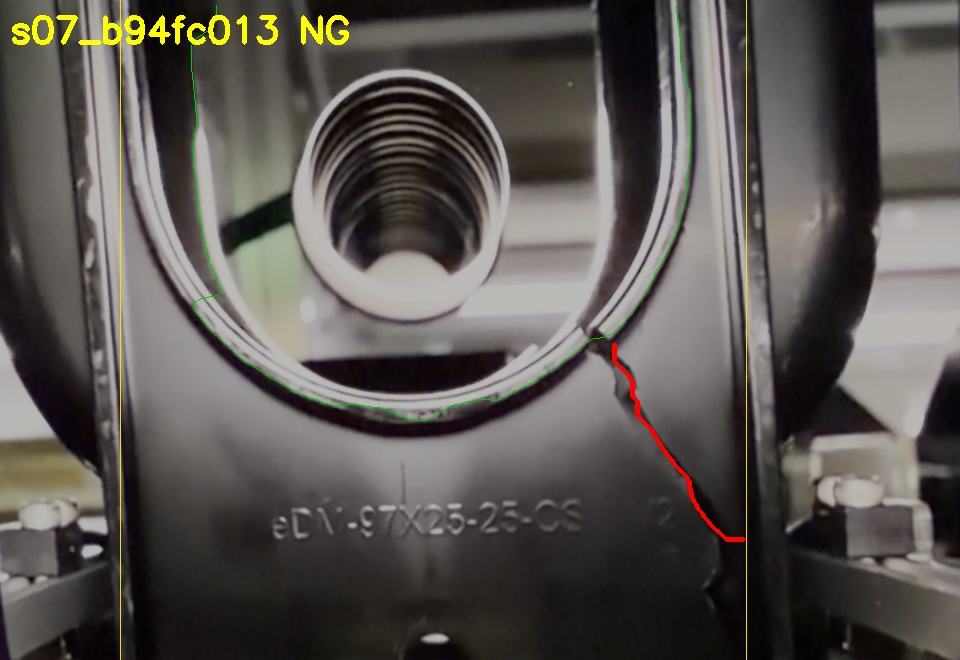
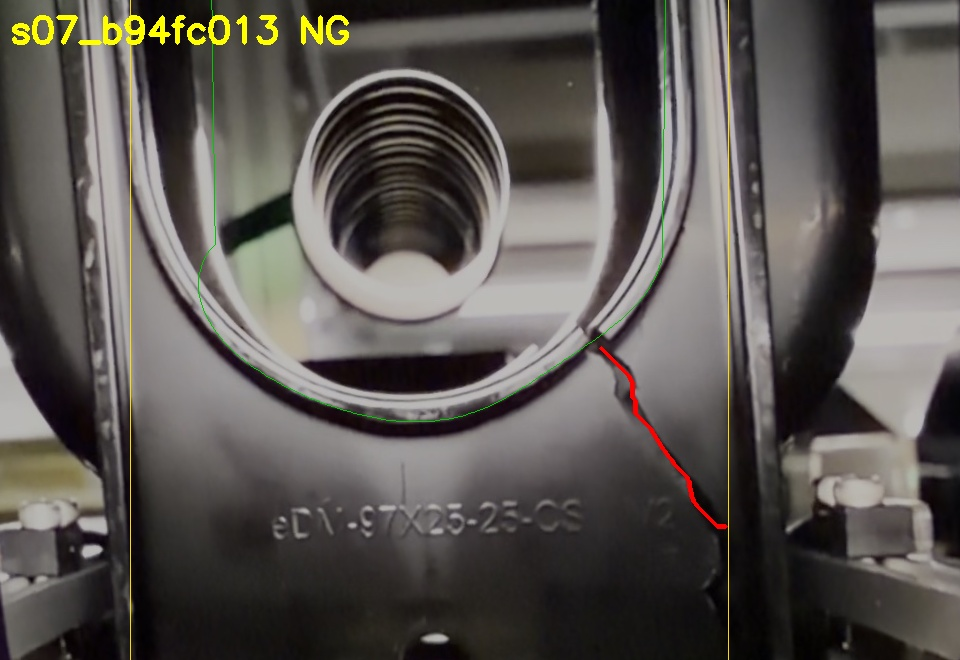
Regularize the detected U: straight symmetric legs and a smooth bottom
Claude-Session: https://claude.ai/code/session_01AGHVZAzegJVfdU4wL5nFmJ

diff --git a/crack_v14/u_detect.py b/crack_v14/u_detect.py
@@ -143,6 +143,57 @@ def trace_leg(img, edge, start, side, row_step=4, search=40, max_shift=3):
     return pts[::-1][:-1]                                         # 上端 -> start の手前（start は arc 側にある）
 
 
+def regularize(rim, cx, cy, deg=6, iters=3):
+    """見つけた縁取りの線を「綺麗なU字」に直す（ガタつき・部分的な外れを取る）。
+
+      脚（中心より上）: 左右それぞれ1本の直線に当てはめる（外れた点は除いて当てはめ直す）
+      底（中心より下）: 中心から見た距離を、角度のなめらかな関数（多項式）に当てはめる
+    """
+    rim = np.asarray(rim, np.float64)
+    legs_l = rim[(rim[:, 1] < cy) & (rim[:, 0] < cx)]
+    legs_r = rim[(rim[:, 1] < cy) & (rim[:, 0] >= cx)]
+    arc = rim[rim[:, 1] >= cy]
+
+    def robust_line(pts):                      # x = a + b*y
+        if len(pts) < 4:
+            return None
+        keep = np.ones(len(pts), bool)
+        for _ in range(iters):
+            b_, a_ = np.polyfit(pts[keep, 1], pts[keep, 0], 1)
+            res = np.abs(pts[:, 0] - (a_ + b_ * pts[:, 1]))
+            keep = res < max(3.0, 2.5 * np.median(res[keep]))
+        return a_, b_
+
+    th = np.arctan2(arc[:, 1] - cy, arc[:, 0] - cx)
+    r = np.hypot(arc[:, 0] - cx, arc[:, 1] - cy)
+    keep = np.ones(len(th), bool)
+    for _ in range(iters):
+        coef = np.polyfit(th[keep], r[keep], deg)
+        res = np.abs(r - np.polyval(coef, th))
+        keep = res < max(3.0, 2.5 * np.median(res[keep]))
+    t2 = np.linspace(th.max(), th.min(), 120)  # 左（大きい角度）-> 底 -> 右
+    a2 = np.c_[cx + np.polyval(coef, t2) * np.cos(t2), cy + np.polyval(coef, t2) * np.sin(t2)]
+
+    out = []
+    L, R = robust_line(legs_l), robust_line(legs_r)
+    # U字は左右対称なので、脚の傾きは左右で鏡写し（左の傾き = -右の傾き）にそろえ、大きく傾けない
+    if L is not None and R is not None:
+        bm = float(np.clip((L[1] - R[1]) / 2, -0.08, 0.08))
+        L, R = (L[0], bm), (R[0], -bm)
+    ys = np.arange(0, a2[0][1], 6.0)
+    if L is not None:
+        xl = L[0] + L[1] * ys
+        xl += a2[0][0] - (L[0] + L[1] * a2[0][1])     # 底とつながるように端をそろえる
+        out.append(np.c_[xl, ys])
+    out.append(a2)
+    ys = np.arange(0, a2[-1][1], 6.0)[::-1]
+    if R is not None:
+        xr = R[0] + R[1] * ys
+        xr += a2[-1][0] - (R[0] + R[1] * a2[-1][1])
+        out.append(np.c_[xr, ys])
+    return np.vstack(out)
+
+
 def snap_rim(ref, rim, search=10, step=4.0, smooth_penalty=2.0):
     """縁取りの線を、近くの本当の境目（外側の暗い樹脂 -> 内側の明るい縁取り）に細かく吸い付け、
     縁取りの太さも測る。戻り値: (点の並び, 縁取りの太さ[px])"""
@@ -195,7 +246,9 @@ def detect_geometry(frame, edge_margin=10, min_thick=30):
     """1枚の画像（基準座標 960x660）から検査範囲を作る。戻り値: (検査範囲, はっきり度)"""
     W, H = SIZE
     rim0, (cx, cy), total = find_rim(frame)
-    rim, width = snap_rim(frame, rim0.tolist())
+    rim0 = regularize(rim0, cx, cy)                            # 綺麗なU字に直す
+    rim, width = snap_rim(frame, rim0.tolist(), search=5, smooth_penalty=4.0)
+    rim = regularize(np.array(rim), cx, cy).tolist()          # 吸い付けたあとも、もう一度U字にそろえる
     rim = np.array(rim)
     bottom = rim[np.argmax(rim[:, 1])]
     top_y = float(rim[:, 1].min())

diff --git a/gist/crack_v14_bundle.py b/gist/crack_v14_bundle.py
@@ -888,6 +888,57 @@ def trace_leg(img, edge, start, side, row_step=4, search=40, max_shift=3):
     return pts[::-1][:-1]                                         # 上端 -> start の手前（start は arc 側にある）
 
 
+def regularize(rim, cx, cy, deg=6, iters=3):
+    """見つけた縁取りの線を「綺麗なU字」に直す（ガタつき・部分的な外れを取る）。
+
+      脚（中心より上）: 左右それぞれ1本の直線に当てはめる（外れた点は除いて当てはめ直す）
+      底（中心より下）: 中心から見た距離を、角度のなめらかな関数（多項式）に当てはめる
+    """
+    rim = np.asarray(rim, np.float64)
+    legs_l = rim[(rim[:, 1] < cy) & (rim[:, 0] < cx)]
+    legs_r = rim[(rim[:, 1] < cy) & (rim[:, 0] >= cx)]
+    arc = rim[rim[:, 1] >= cy]
+
+    def robust_line(pts):                      # x = a + b*y
+        if len(pts) < 4:
+            return None
+        keep = np.ones(len(pts), bool)
+        for _ in range(iters):
+            b_, a_ = np.polyfit(pts[keep, 1], pts[keep, 0], 1)
+            res = np.abs(pts[:, 0] - (a_ + b_ * pts[:, 1]))
+            keep = res < max(3.0, 2.5 * np.median(res[keep]))
+        return a_, b_
+
+    th = np.arctan2(arc[:, 1] - cy, arc[:, 0] - cx)
+    r = np.hypot(arc[:, 0] - cx, arc[:, 1] - cy)
+    keep = np.ones(len(th), bool)
+    for _ in range(iters):
+        coef = np.polyfit(th[keep], r[keep], deg)
+        res = np.abs(r - np.polyval(coef, th))
+        keep = res < max(3.0, 2.5 * np.median(res[keep]))
+    t2 = np.linspace(th.max(), th.min(), 120)  # 左（大きい角度）-> 底 -> 右
+    a2 = np.c_[cx + np.polyval(coef, t2) * np.cos(t2), cy + np.polyval(coef, t2) * np.sin(t2)]
+
+    out = []
+    L, R = robust_line(legs_l), robust_line(legs_r)
+    # U字は左右対称なので、脚の傾きは左右で鏡写し（左の傾き = -右の傾き）にそろえ、大きく傾けない
+    if L is not None and R is not None:
+        bm = float(np.clip((L[1] - R[1]) / 2, -0.08, 0.08))
+        L, R = (L[0], bm), (R[0], -bm)
+    ys = np.arange(0, a2[0][1], 6.0)
+    if L is not None:
+        xl = L[0] + L[1] * ys
+        xl += a2[0][0] - (L[0] + L[1] * a2[0][1])     # 底とつながるように端をそろえる
+        out.append(np.c_[xl, ys])
+    out.append(a2)
+    ys = np.arange(0, a2[-1][1], 6.0)[::-1]
+    if R is not None:
+        xr = R[0] + R[1] * ys
+        xr += a2[-1][0] - (R[0] + R[1] * a2[-1][1])
+        out.append(np.c_[xr, ys])
+    return np.vstack(out)
+
+
 def snap_rim(ref, rim, search=10, step=4.0, smooth_penalty=2.0):
     """縁取りの線を、近くの本当の境目（外側の暗い樹脂 -> 内側の明るい縁取り）に細かく吸い付け、
     縁取りの太さも測る。戻り値: (点の並び, 縁取りの太さ[px])"""
@@ -940,7 +991,9 @@ def detect_geometry(frame, edge_margin=10, min_thick=30):
     """1枚の画像（基準座標 960x660）から検査範囲を作る。戻り値: (検査範囲, はっきり度)"""
     W, H = SIZE
     rim0, (cx, cy), total = find_rim(frame)
-    rim, width = snap_rim(frame, rim0.tolist())
+    rim0 = regularize(rim0, cx, cy)                            # 綺麗なU字に直す
+    rim, width = snap_rim(frame, rim0.tolist(), search=5, smooth_penalty=4.0)
+    rim = regularize(np.array(rim), cx, cy).tolist()          # 吸い付けたあとも、もう一度U字にそろえる
     rim = np.array(rim)
     bottom = rim[np.argmax(rim[:, 1])]
     top_y = float(rim[:, 1].min())
